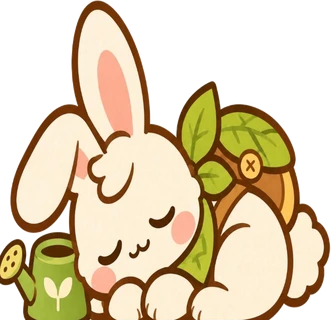
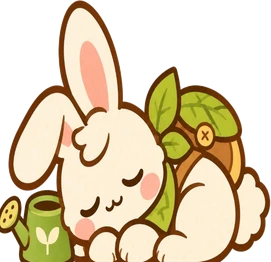
成年 16 型正式睡覺圖：配件照戴、手持道具放身邊，不再借用幼年圖
Claude-Session: https://claude.ai/code/session_01UtWEYBXauzih7EQqRm4b6n

Changed region(s): [[0.4133, 0.9466, 0.4428, 1.0], [0.8856, 0.4885, 0.9151, 0.5191], [0.4133, 0.7634, 0.4428, 0.7939]]

diff --git a/sw.js b/sw.js
@@ -1,5 +1,5 @@
 // 離線快取：任何檔案改動後都要把 VERSION 加一（wp-life-v1 → wp-life-v2），新增的素材也要加進 CORE 清單。
-const VERSION = 'wp-life-v16';
+const VERSION = 'wp-life-v17';
 const CORE = [
   './',
   './index.html',
@@ -106,7 +106,22 @@ const CORE = [
   './assets/characters/baby/act/baby_act_hold_front.webp',
   './assets/characters/baby/act/baby_act_sick.webp',
   './assets/props/poop.webp',
-  './assets/characters/kuri_r/act/kuri_r_act_sleep.webp'];
+  './assets/characters/kuri_r/act/kuri_r_act_sleep.webp',
+  './assets/characters/kuri_p/act/kuri_p_act_sleep.webp',
+  './assets/characters/kuri_f/act/kuri_f_act_sleep.webp',
+  './assets/characters/kuri_h/act/kuri_h_act_sleep.webp',
+  './assets/characters/sunny_p/act/sunny_p_act_sleep.webp',
+  './assets/characters/sunny_r/act/sunny_r_act_sleep.webp',
+  './assets/characters/sunny_f/act/sunny_f_act_sleep.webp',
+  './assets/characters/sunny_h/act/sunny_h_act_sleep.webp',
+  './assets/characters/dodo_p/act/dodo_p_act_sleep.webp',
+  './assets/characters/dodo_r/act/dodo_r_act_sleep.webp',
+  './assets/characters/dodo_f/act/dodo_f_act_sleep.webp',
+  './assets/characters/dodo_h/act/dodo_h_act_sleep.webp',
+  './assets/characters/piko_p/act/piko_p_act_sleep.webp',
+  './assets/characters/piko_r/act/piko_r_act_sleep.webp',
+  './assets/characters/piko_f/act/piko_f_act_sleep.webp',
+  './assets/characters/piko_h/act/piko_h_act_sleep.webp'];
 
 self.addEventListener('install', e => {
   e.waitUntil(caches.open(VERSION).then(c => c.addAll(CORE)).then(() => self.skipWaiting()));

diff --git a/index.html b/index.html
@@ -484,10 +484,10 @@ const ART_ACTS = {
   sunny: ['idle', 'eat', 'sleep', 'play', 'sick', 'hold', 'hold_front'],
   dodo:  ['idle', 'eat', 'sleep', 'play', 'sick', 'hold', 'hold_front'],
   piko:  ['idle', 'eat', 'sleep', 'play', 'sick', 'hold', 'hold_front'],
-  kuri_p: ['idle'], kuri_r: ['idle', 'sleep'], kuri_f: ['idle'], kuri_h: ['idle'],   // 成年型 v1（2026-11-25）
-  sunny_p: ['idle'], sunny_r: ['idle'], sunny_f: ['idle'], sunny_h: ['idle'],
-  dodo_p: ['idle'], dodo_r: ['idle'], dodo_f: ['idle'], dodo_h: ['idle'],
-  piko_p: ['idle'], piko_r: ['idle'], piko_f: ['idle'], piko_h: ['idle'],
+  kuri_p: ['idle', 'sleep'], kuri_r: ['idle', 'sleep'], kuri_f: ['idle', 'sleep'], kuri_h: ['idle', 'sleep'],   // 成年型 v1（2026-11-25）
+  sunny_p: ['idle', 'sleep'], sunny_r: ['idle', 'sleep'], sunny_f: ['idle', 'sleep'], sunny_h: ['idle', 'sleep'],
+  dodo_p: ['idle', 'sleep'], dodo_r: ['idle', 'sleep'], dodo_f: ['idle', 'sleep'], dodo_h: ['idle', 'sleep'],
+  piko_p: ['idle', 'sleep'], piko_r: ['idle', 'sleep'], piko_f: ['idle', 'sleep'], piko_h: ['idle', 'sleep'],
   // kuri: ['idle', 'eat', 'sleep', 'play', 'sick'],
 };
 for (const [f, acts] of Object.entries(ART_ACTS)) for (const a of acts){

diff --git a/docs/growth-chart-v1.md b/docs/growth-chart-v1.md
@@ -52,6 +52,7 @@
 - 寶寶的睡覺／生病／捧食物三張，帽子顏色用 `tools/capmatch.py` 對齊定稿 idle（ChatGPT 後來畫的帽子偏淺焦糖色）。
 - 吃東西（捧著食物）：KURI（11-25）、SUNNY、DODO、PIKO、森林寶寶（11-28）都有 `{型態}_act_hold.webp`＋`{型態}_act_hold_front.webp`。做法：請 ChatGPT 畫雙手捧著洋紅色 #FF00FF 圓形佔位，`tools/holdpose.py` 拆成身體層（洋紅處填附近最常見的毛色）與前掌層，並印出錨點登記到 `index.html` 的 `HOLD`；遊戲畫法是身體層 → 食物圖示（`assets/food/`，`tools/foodsheet.py` 切圖）→ 前掌層，所以餵什麼就捧什麼。手上原本拿的道具（PIKO 的放大鏡）吃東西時放下。成年 16 型尚未補，暫時是食物拿在嘴邊。
 - 便便：`assets/props/poop.webp`（11-28），程式另外畫臭臭線。
+- 成年 16 型睡覺圖 `{型態}_act_sleep.webp`（2026-11-28）：睡姿照幼年睡覺圖（捲起來側臥），身上戴的配件照戴（郵差包、四葉草、彩虹尾、頭帶、廚師帽、橡樹苗、偵探帽、護目鏡），手上拿的放到身邊地上（澆水壺、蛋糕、望遠鏡、太陽旗、野餐籃、放大鏡、扳手、星空望遠鏡），暖暖守護熊把披風毛毯當被子蓋、菇菇博士趴在書上睡。大小用 `tools/adultpose.py` 依「幼年睡覺高 ÷ 幼年 idle 高」換算（小園丁截圖構圖不同，另外縮 0.82）。ChatGPT 第一輪常自己多加帽子／圍裙／髮夾（郵差、甜點師、四葉草、SUNNY 三型），以及毛毯變紅格子，都已要求照定稿重畫。
 - 程式疊加：睡覺時閉眼；飲食傾向提示改成「嫩芽周圍的彩色光暈」（綠＝菜園、橘＝陽光、棕＝蜂蜜、紫＝好奇），陽光另加小光點
 - 之後可再請 ChatGPT 補吃東西、睡覺、生病的專用圖
 - 以下為原始提案：

diff --git a/CLAUDE.md b/CLAUDE.md
@@ -12,7 +12,7 @@ https://omg155195-676.github.io/woodland-pals-little-life/
 - `sw.js`：離線快取。**任何檔案改動後都要把 `VERSION` 加一**（例如 `wp-life-v1` → `wp-life-v2`），新增的素材也要加進 `CORE` 清單
 - `manifest.webmanifest`、`icons/`：PWA 安裝設定與 App 圖示（森林寶寶從橡實蛋探頭，ChatGPT 生成；maskable 版外圍加留白）
 - `assets/characters/{型態}/face/`：表情圖；目前幼年四角色的表情用 LINE 日常表情貼（暫代）
-- `assets/characters/{型態}/act/{型態}_act_{idle|eat|sleep|play|sick}.webp`：正式動作圖（蛋、寶寶、四隻幼年已完成；成年型尚未製作）。新增後要登記在 `index.html` 的 `ART_ACTS`。去背用 `tools/cutout.py`
+- `assets/characters/{型態}/act/{型態}_act_{idle|eat|sleep|play|sick}.webp`：正式動作圖（蛋、寶寶、四隻幼年已完成；成年型有 idle＋sleep，生病與捧食物尚未製作）。新增後要登記在 `index.html` 的 `ART_ACTS`。去背用 `tools/cutout.py`
 - `assets/backgrounds/bg_forest_{day|dusk|night}.webp`：森林背景（已完成），登記在 `ART_BG`
 - `assets/food/{F01…F16,T01…T04}.webp`：食物圖示；`assets/props/poop.webp`：便便
 - 捧食物姿勢 `{型態}_act_hold(_front).webp`：`tools/holdpose.py` 產生，錨點登記在 `HOLD`；森林寶寶帽子顏色用 `tools/capmatch.py` 對齊
